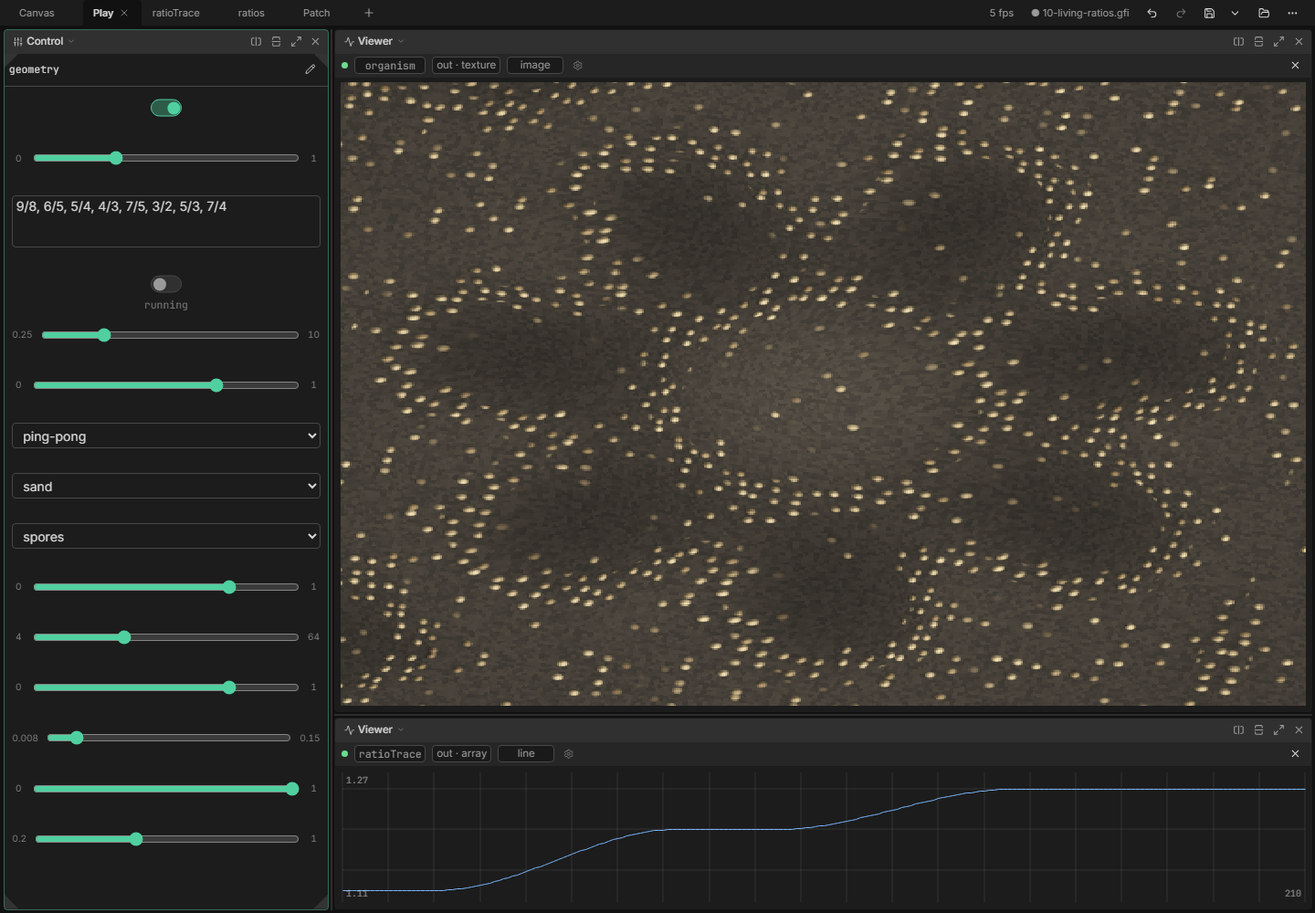
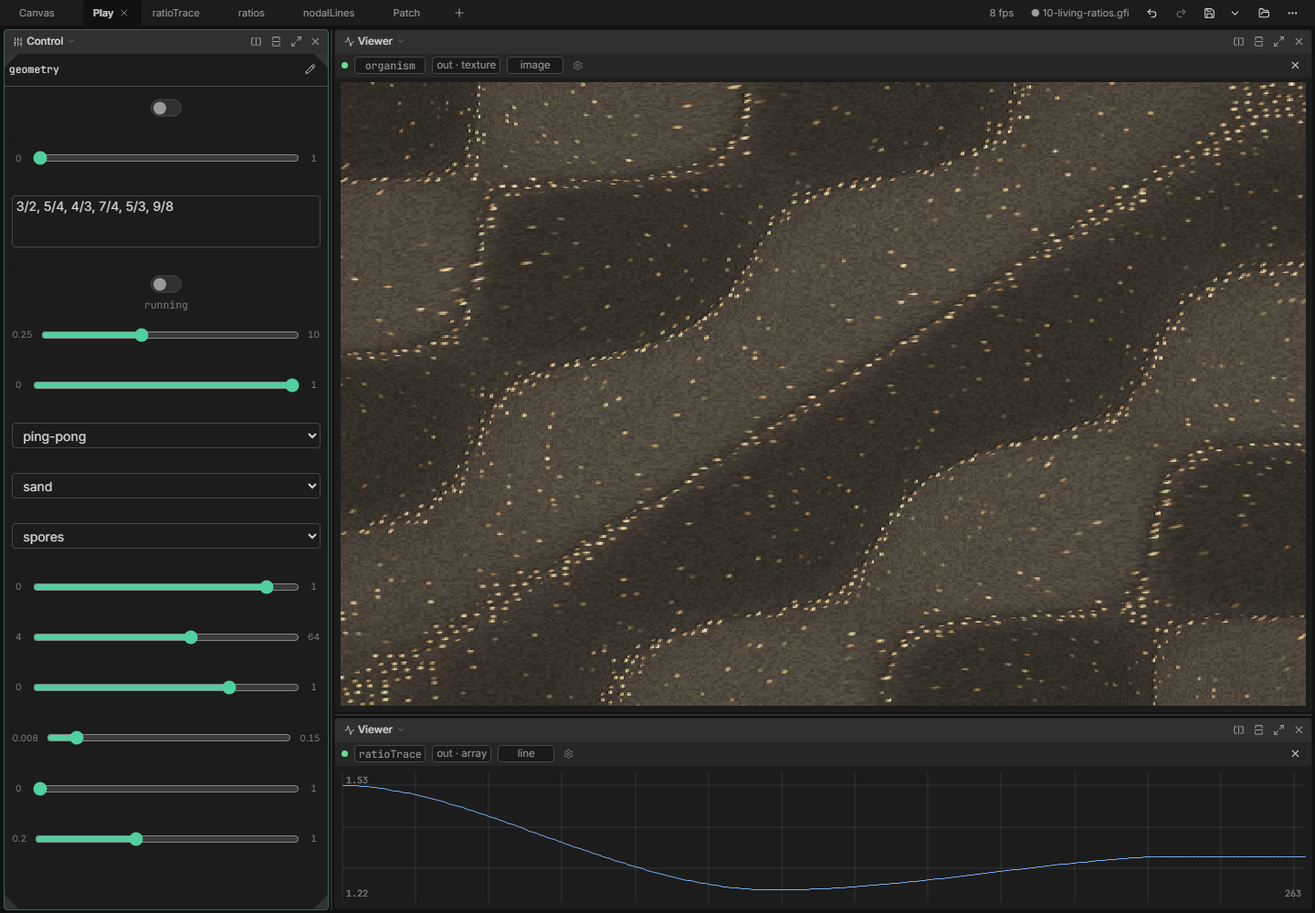
Morph sequenced ratios through coherent Chladni states
Carry both harmonic endpoints and their blend in one transition frame. Map endpoints before mode interpolation, start the demo on the plate path with continuous glides, and add a plain nodal view. Verify geometry movement with fixed textures and continuity at step changes and reversals.

diff --git a/examples/harmonic-geometry/Cookbook.html b/examples/harmonic-geometry/Cookbook.html
@@ -65,10 +65,10 @@ cargo run -- --load examples/harmonic-geometry/01-breathing-lines.gfi</pre><p>St
         <aside class="note">This is a stateless material renderer with explicit mode and texture controls. Mirrored extension fills every edge. Both views stretch the image to the available panel. Grains, colonies, and cells are procedural field-dependent features, not tracked particles or a biological simulation. The saved patch uses 512 × 512 for both field and material. Small detail is limited by the height-map resolution.</aside><a class="button" href="09-jade-resonance.gfi">Open patch archive ↗</a>
         <a class="quiet" href="assets/09-jade-resonance-browser.png">Browser view ↗</a></section>
 <section class="recipe" id="recipe-10">
-        <div class="eyebrow">RECIPE 10 / 7 NODES</div><h2>Living ratios</h2>
-        <p class="deck">A ratio walks. A field answers.</p><figure><img loading="lazy" src="assets/10-living-ratios.png" alt="Rendered output of Living ratios"><figcaption>Rendered from a real goofi node session.</figcaption></figure>
-        <p>RatioSequence emits an ordered series of ratios in real time. Each step holds, then glides in pitch to the next. One moving voice sits between fixed anchors at 1 and 2. The shared harmonic frame drives the field, while a separate slow control morphs the organic texture. The trace below the picture shows the recent ratio history. The ratios tab shows the current step, target, and numeric ratio.</p><div class="route">ratios.tuning → chord.a → field.harmonics → organism · ratios.ratio → ratioTrace · slow.out → organism.texture_mix</div><table><tr><th>ratios</th><td>Enter an ordered list such as 9/8, 6/5, 5/4, 4/3, 7/5, 3/2, 5/3, 7/4. Fractions and decimals are accepted.</td></tr><tr><th>running / stepSeconds</th><td>Pause at the current position or set seconds per step.</td></tr><tr><th>glide / direction</th><td>Glide 0 gives discrete steps; 1 glides for the whole step. Ping-pong reverses at the ends without repeating them.</td></tr><tr><th>auto / mix</th><td>These control the texture blend only. Ratio motion has its own running switch.</td></tr><tr><th>textureA / textureB / density</th><td>Choose any two of the twelve textures. Density controls grain and colony coverage.</td></tr><tr><th>grainSize / grainHeight / bandWidth</th><td>Set texture repeats, surface detail height, and the width of nodal concentration bands.</td></tr><tr><th>approach / period</th><td>Approach 1 keeps continuous ratio glides in open waves. Approach 0 maps to discrete plate modes; intermediate values blend the two fields.</td></tr></table>
-        <aside class="note">This example uses RatioSequence with HarmonicMorph, HarmonicModes, HarmonicChladni, HarmonicRelief, and Buffer. Reset is a pulse on the RatioSequence node. The optional clock input lets another source supply elapsed seconds. Keep steps longer than the node update interval. Anchor crossings or equal components can change the sorting and merging in HarmonicMorph. The saved sequence stays strictly between its two anchors.</aside><a class="button" href="10-living-ratios.gfi">Open patch archive ↗</a>
+        <div class="eyebrow">RECIPE 10 / 8 NODES</div><h2>Living ratios</h2>
+        <p class="deck">One Chladni state unfolds into the next.</p><figure><img loading="lazy" src="assets/10-living-ratios.png" alt="Rendered output of Living ratios"><figcaption>Rendered from a real goofi node session.</figcaption></figure>
+        <p>Each ratio defines an integer plate mode. HarmonicModes maps the two endpoints first, then moves the mode coordinates between them. Both endpoints and the blend travel together, so a step boundary cannot reset the blend before its new endpoints arrive. The default moves continuously for four seconds per state. Texture motion starts off so the nodal pattern remains clear. The trace shows the simultaneous pitch glide; nodalLines gives a plain line view of the same plate.</p><div class="route">ratios.transition → modes.transition → field.modes → organism + nodalLines · ratios.tuning → chord → field.harmonics · ratios.ratio → ratioTrace</div><table><tr><th>ratios</th><td>Start with 3/2, 5/4, 4/3, 7/4, 5/3, 9/8. Each pair of consecutive ratios defines a transition between plate states.</td></tr><tr><th>running / stepSeconds</th><td>Pause at the current state or set seconds per transition. The default is four seconds.</td></tr><tr><th>glide / direction</th><td>Glide 1 moves throughout the step. Lower values add a hold before the transition. Ping-pong reverses through the same states.</td></tr><tr><th>auto / mix</th><td>These control texture blending only. Auto starts off; turn it on after inspecting the shape motion.</td></tr><tr><th>textureA / textureB / density</th><td>Choose any two of the twelve textures. Sand gives a clear view of the moving nodal bands.</td></tr><tr><th>grainSize / grainHeight / bandWidth</th><td>Set texture repeats, surface detail height, and nodal band width.</td></tr><tr><th>approach / period</th><td>Approach 0 follows the smooth Chladni mode path. Approach 1 uses the gliding anchor chord for open waves; period sets their spatial scale.</td></tr></table>
+        <aside class="note">Fractional intermediate mode coordinates are visual transitions, not physical plate eigenmodes. The single-ratio plate path and the gliding anchor chord give two different manifestations of the same sequence. The transition packet also accepts multi-component harmonic endpoints from other producers. Reset is on RatioSequence; its optional clock takes elapsed seconds.</aside><a class="button" href="10-living-ratios.gfi">Open patch archive ↗</a>
         <a class="quiet" href="assets/10-living-ratios-browser.png">Browser view ↗</a></section>
 <section id="atlas"><div class="eyebrow">SPECIMEN COLLECTION</div><h2>One frame, 46 forms.</h2><p>These images come from the public-session method sweep. Click a specimen to inspect the full dashboard. The same default harmonic frame feeds each method. The atlas is a comparison of approaches, not a claim that every default chord makes an equally rich form.</p><input class="search" type="search" aria-label="Filter geometry methods" placeholder="Filter: knot, plate, tree, sphere…"><div class="grid"><a class="specimen" href="assets/compound.png" data-name="compound"><img loading="lazy" src="assets/compound.png" alt="compound"><span>compound</span></a>
 <a class="specimen" href="assets/lateral.png" data-name="lateral"><img loading="lazy" src="assets/lateral.png" alt="lateral"><span>lateral</span></a>

diff --git a/tests/e2e/tests/harmonic-geometry.spec.ts b/tests/e2e/tests/harmonic-geometry.spec.ts
@@ -29,6 +29,25 @@ async function imageContrast(page: Page): Promise<number> {
 	}, png.toString('base64'));
 }
 
+async function imageMovement(page: Page, previous: string): Promise<number> {
+	const current = (await page.locator('.vp-body canvas:visible').first().screenshot()).toString('base64');
+	return page.evaluate(async ([previous, current]) => {
+		const read = async (encoded: string) => {
+			const bytes = Uint8Array.from(atob(encoded), c => c.charCodeAt(0));
+			const bitmap = await createImageBitmap(new Blob([bytes], { type: 'image/png' }));
+			const canvas = new OffscreenCanvas(64, 64);
+			const ctx = canvas.getContext('2d')!;
+			ctx.drawImage(bitmap, 0, 0, 64, 64);
+			bitmap.close();
+			return ctx.getImageData(0, 0, 64, 64).data;
+		};
+		const [a, b] = await Promise.all([read(previous), read(current)]);
+		let difference = 0;
+		for (let i = 0; i < a.length; i += 4) difference += Math.abs(a[i]-b[i]);
+		return difference/(64*64);
+	}, [previous, current]);
+}
+
 test('the harmonic geometry cookbook opens as live dashboards with usable controls', async ({ page }) => {
 	test.setTimeout(360_000);
 	page.setDefaultTimeout(15_000);
@@ -187,8 +206,14 @@ test('living ratios modulate the organic field with a visible trace and pause co
 		const loaded = await rawCall(page, 'session load', { path: path.join(folder, '10-living-ratios.gfi') });
 		expect(loaded.error, JSON.stringify(loaded)).toBeUndefined();
 		await expect(page.getByTestId('control-geometry-running').getByRole('checkbox')).toBeChecked();
+		await expect(page.getByTestId('control-geometry-auto').getByRole('checkbox')).not.toBeChecked();
+		await expect(page.getByTestId('control-geometry-approach').getByRole('slider')).toHaveValue('0');
+		await expect(page.getByTestId('control-geometry-glide').getByRole('slider')).toHaveValue('1');
 		await expect.poll(() => page.locator('.vp-body canvas:visible').count()).toBeGreaterThanOrEqual(2);
 		await expect.poll(() => imageContrast(page), { timeout: 45_000 }).toBeGreaterThan(15);
+		const still = (await page.locator('.vp-body canvas:visible').first().screenshot()).toString('base64');
+		await expect.poll(() => imageMovement(page, still), { timeout: 8_000,
+			message: 'The Chladni picture visibly changes while the texture stays fixed' }).toBeGreaterThan(4);
 		const sample = async () => (await rawCall(page, 'node snapshot', { output: 'ratios/ratio' })).result?.range?.mean;
 		await expect.poll(sample).toBeGreaterThan(1);
 		const first = await sample();
@@ -199,6 +224,8 @@ test('living ratios modulate the organic field with a visible trace and pause co
 		await page.screenshot({ path: path.join(folder, 'assets', '10-living-ratios-browser.png') });
 		await page.getByRole('tab', { name: 'ratios Close tab', exact: true }).click();
 		await expect(page.locator('.vp-body')).toContainText('ratio');
+		await page.getByRole('tab', { name: 'nodalLines Close tab', exact: true }).click();
+		await expect.poll(() => imageContrast(page)).toBeGreaterThan(15);
 	} finally {
 		await resetPatch(page);
 	}

diff --git a/examples/harmonic-geometry/build_patches.py b/examples/harmonic-geometry/build_patches.py
@@ -21,7 +21,7 @@ RELIEF_TEXTURES = next(p['options'] for p in RELIEF_HEADER['params'] if p['name'
 
 
 class Patch:
-    def __init__(self, slug, title):
+    def __init__(self, slug, title, auto=True, mix=0.3):
         self.slug, self.title = slug, title
         self.nodes, self.links, self.names, self.globals = {}, [], {}, []
         self.views = []
@@ -31,18 +31,18 @@ class Patch:
         self.extra = {}
         for name, value in [('default_ufreq', 20.0), ('default_width', 256), ('default_height', 256)]:
             self.globals.append({'name': 'system.'+name, 'type': 'int' if isinstance(value, int) else 'float', 'value': value})
-        self.control('auto', True, kind='toggle')
-        self.control('mix', 0.3, 0, 1)
+        self.control('auto', auto, kind='toggle')
+        self.control('mix', mix, 0, 1)
         self.node('slow', 'signal:LFO', (-380, 0), lfo={'frequency': 0.018, 'phase': 0.75}, common={'max_frequency': 20.0})
         self.bind('slow', 'lfo', 'amplitude', '0.5 if globals.geometry.auto else 0.0')
         self.bind('slow', 'lfo', 'offset', '0.5 if globals.geometry.auto else globals.geometry.mix')
 
-    def control(self, name, value, lo=0.0, hi=1.0, kind='slider', options=None):
+    def control(self, name, value, lo=0.0, hi=1.0, kind='slider', options=None, step=None):
         typ = 'bool' if isinstance(value, bool) else 'string' if isinstance(value, str) else 'float'
         control = {'kind': kind, 'x': 0.0, 'y': self.row, 'w': 16.0, 'h': 2.0 if kind != 'text' else 3.0}
         if typ == 'float':
-            # Native range inputs must reach the decimal endpoint in exactly 200 steps.
-            step = float((Decimal(str(hi))-Decimal(str(lo)))/200)
+            # Default steps reach both decimal endpoints; custom steps can also align the initial value.
+            if step is None: step = float((Decimal(str(hi))-Decimal(str(lo)))/200)
             control.update(min=lo, max=hi, step=step)
         if options: control['options'] = options
         self.row += control['h']
@@ -325,12 +325,12 @@ def recipes():
     p.display('jade', 'out')
     yield p.save()
 
-    p = Patch('10-living-ratios', 'Living ratios')
+    p = Patch('10-living-ratios', 'Living ratios', auto=False, mix=0.0)
     p.canvas = True
-    p.control('ratios', '9/8, 6/5, 5/4, 4/3, 7/5, 3/2, 5/3, 7/4', kind='text')
+    p.control('ratios', '3/2, 5/4, 4/3, 7/4, 5/3, 9/8', kind='text')
     p.control('running', True, kind='toggle')
-    p.control('stepSeconds', 2.5, .25, 10)
-    p.control('glide', .7, 0, 1)
+    p.control('stepSeconds', 4.0, .25, 10, step=.05)
+    p.control('glide', 1.0, 0, 1)
     p.control('direction', 'ping-pong', kind='dropdown', options=['forward', 'ping-pong'])
     p.node('ratios', 'signal:RatioSequence', (0, 0))
     for name, param in [('ratios', 'ratios'), ('running', 'running'), ('stepSeconds', 'seconds'), ('glide', 'glide'), ('direction', 'direction')]:
@@ -338,31 +338,34 @@ def recipes():
     p.harmonic('chord', '1, 9/8, 2', '1, 9/8, 2', (380, 0), False)
     p.wire('ratios', 'tuning', 'chord', 'a')
     p.node('modes', 'signal:HarmonicModes', (750, 0))
-    p.wire('chord', 'harmonic', 'modes', 'input')
+    p.wire('ratios', 'transition', 'modes', 'transition')
     p.node('field', 'graphics:HarmonicChladni', (1120, 0),
-           field={'approach': 1.0, 'directions': 7, 'period': .5}, common={'width': 512, 'height': 512})
+           field={'approach': 0.0, 'symmetry': 1.0, 'directions': 7, 'period': .5}, common={'width': 512, 'height': 512})
     p.wire('chord', 'packed', 'field', 'harmonics'); p.wire('modes', 'modes', 'field', 'modes')
     p.node('organism', 'graphics:HarmonicRelief', (1500, 0),
-           material={'texture_a': 'sand', 'texture_b': 'spores'}, common={'width': 512, 'height': 512})
+           material={'texture_a': 'sand', 'texture_b': 'spores'}, camera={'tilt': 0.0, 'turn': 0.0},
+           common={'width': 512, 'height': 512})
     p.wire('field', 'out', 'organism', 'input')
     p.bind('organism', 'material', 'texture_mix', reference='slow.out')
     for name, value, param in [('textureA', 'sand', 'texture_a'), ('textureB', 'spores', 'texture_b')]:
         p.control(name, value, kind='dropdown', options=RELIEF_TEXTURES)
         p.bind('organism', 'material', param, 'globals.geometry.'+name)
     for name, value, lo, hi, node, group, param in [
-        ('density', .75, 0, 1, 'organism', 'material', 'density'),
-        ('grainSize', 24.0, 4, 64, 'organism', 'material', 'texture_scale'),
+        ('density', .9, 0, 1, 'organism', 'material', 'density'),
+        ('grainSize', 40.0, 4, 64, 'organism', 'material', 'texture_scale'),
         ('grainHeight', .75, 0, 1, 'organism', 'material', 'texture_depth'),
         ('bandWidth', .022, .008, .15, 'organism', 'form', 'seam'),
-        ('approach', 1.0, 0, 1, 'field', 'field', 'approach'),
+        ('approach', 0.0, 0, 1, 'field', 'field', 'approach'),
         ('period', .5, .2, 1.0, 'field', 'field', 'period'),
     ]:
-        p.control(name, value, lo, hi)
+        p.control(name, value, lo, hi, step={'grainSize': .1, 'bandWidth': .0001}.get(name))
         p.bind(node, group, param, 'globals.geometry.'+name)
     p.node('ratioTrace', 'signal:Buffer', (380, 480), buffer={'size': 600})
     p.wire('ratios', 'ratio', 'ratioTrace', 'input')
     p.monitor = ('ratioTrace', 'out', 'line')
     p.display('organism', 'out'); p.display('ratioTrace', 'out', 'line'); p.display('ratios', 'label', 'string')
+    p.ink('field', name='nodalLines')
+    p.display('nodalLines', 'out')
     yield p.save()
 
 

diff --git a/examples/harmonic-geometry/build_cookbook.py b/examples/harmonic-geometry/build_cookbook.py
@@ -53,11 +53,11 @@ NOTES = [
      [('auto / mix / symmetry', 'Auto runs the mode walk. Turn it off to set mix. Symmetry changes how swapped plate modes interfere.'), ('textureA / textureB', 'Choose any two of the twelve textures. Organic options include sand, dunes, lichen, coral, cells, spores, pollen, and plankton. The four mineral and fabric finishes remain available.'), ('textureAuto / textureMix', 'TextureAuto runs a separate slow motion. Turn it off to set textureMix from endpoint A at 0 to endpoint B at 1. The endpoint curve is smooth.'), ('textureScale / textureDepth / density', 'Set texture repeats and surface height. Density changes grain and colony coverage. These leave the source field unchanged.'), ('relief / goldSeam', 'Change the height of the harmonic relief and the width of its metal seams.'), ('engraving / roughness / patina', 'Add contour etching, tune highlight width, and move the jade finish from bronze to green.'), ('light / tilt', 'Move the light or tilt the camera to inspect the surface.')],
      'chordA + chordB → modeWalk → plate → jade · materialMotion.out → jade.material/texture_mix',
      'This is a stateless material renderer with explicit mode and texture controls. Mirrored extension fills every edge. Both views stretch the image to the available panel. Grains, colonies, and cells are procedural field-dependent features, not tracked particles or a biological simulation. The saved patch uses 512 × 512 for both field and material. Small detail is limited by the height-map resolution.'),
-    ('A ratio walks. A field answers.',
-     'RatioSequence emits an ordered series of ratios in real time. Each step holds, then glides in pitch to the next. One moving voice sits between fixed anchors at 1 and 2. The shared harmonic frame drives the field, while a separate slow control morphs the organic texture. The trace below the picture shows the recent ratio history. The ratios tab shows the current step, target, and numeric ratio.',
-     [('ratios', 'Enter an ordered list such as 9/8, 6/5, 5/4, 4/3, 7/5, 3/2, 5/3, 7/4. Fractions and decimals are accepted.'), ('running / stepSeconds', 'Pause at the current position or set seconds per step.'), ('glide / direction', 'Glide 0 gives discrete steps; 1 glides for the whole step. Ping-pong reverses at the ends without repeating them.'), ('auto / mix', 'These control the texture blend only. Ratio motion has its own running switch.'), ('textureA / textureB / density', 'Choose any two of the twelve textures. Density controls grain and colony coverage.'), ('grainSize / grainHeight / bandWidth', 'Set texture repeats, surface detail height, and the width of nodal concentration bands.'), ('approach / period', 'Approach 1 keeps continuous ratio glides in open waves. Approach 0 maps to discrete plate modes; intermediate values blend the two fields.')],
-     'ratios.tuning → chord.a → field.harmonics → organism · ratios.ratio → ratioTrace · slow.out → organism.texture_mix',
-     'This example uses RatioSequence with HarmonicMorph, HarmonicModes, HarmonicChladni, HarmonicRelief, and Buffer. Reset is a pulse on the RatioSequence node. The optional clock input lets another source supply elapsed seconds. Keep steps longer than the node update interval. Anchor crossings or equal components can change the sorting and merging in HarmonicMorph. The saved sequence stays strictly between its two anchors.'),
+    ('One Chladni state unfolds into the next.',
+     'Each ratio defines an integer plate mode. HarmonicModes maps the two endpoints first, then moves the mode coordinates between them. Both endpoints and the blend travel together, so a step boundary cannot reset the blend before its new endpoints arrive. The default moves continuously for four seconds per state. Texture motion starts off so the nodal pattern remains clear. The trace shows the simultaneous pitch glide; nodalLines gives a plain line view of the same plate.',
+     [('ratios', 'Start with 3/2, 5/4, 4/3, 7/4, 5/3, 9/8. Each pair of consecutive ratios defines a transition between plate states.'), ('running / stepSeconds', 'Pause at the current state or set seconds per transition. The default is four seconds.'), ('glide / direction', 'Glide 1 moves throughout the step. Lower values add a hold before the transition. Ping-pong reverses through the same states.'), ('auto / mix', 'These control texture blending only. Auto starts off; turn it on after inspecting the shape motion.'), ('textureA / textureB / density', 'Choose any two of the twelve textures. Sand gives a clear view of the moving nodal bands.'), ('grainSize / grainHeight / bandWidth', 'Set texture repeats, surface detail height, and nodal band width.'), ('approach / period', 'Approach 0 follows the smooth Chladni mode path. Approach 1 uses the gliding anchor chord for open waves; period sets their spatial scale.')],
+     'ratios.transition → modes.transition → field.modes → organism + nodalLines · ratios.tuning → chord → field.harmonics · ratios.ratio → ratioTrace',
+     'Fractional intermediate mode coordinates are visual transitions, not physical plate eigenmodes. The single-ratio plate path and the gliding anchor chord give two different manifestations of the same sequence. The transition packet also accepts multi-component harmonic endpoints from other producers. Reset is on RatioSequence; its optional clock takes elapsed seconds.'),
 ]
 
 

diff --git a/backend/goofi-tests/tests/harmonic_geometry.rs b/backend/goofi-tests/tests/harmonic_geometry.rs
@@ -767,3 +767,57 @@ fn ratio_sequence_holds_glides_loops_and_drives_a_harmonic_field() {
     seek(0.0, 1.25); // A backward clock re-anchors safely.
     assert!(g.error(sequence).is_none());
 }
+
+#[test]
+fn sequenced_chladni_states_move_continuously_across_step_boundaries() {
+    let _py = require_python();
+    let g = Goofi::new();
+    install_bundle(&g, &[("ratio_clock.py", include_str!("fixtures/ratio_clock.py"))]);
+    let clock = g.add("RatioClock");
+    let sequence = g.add("RatioSequence");
+    g.set_param(sequence, "sequence", "ratios", "3/2, 5/4, 4/3");
+    g.set_param(sequence, "sequence", "seconds", 1.0);
+    g.set_param(sequence, "sequence", "glide", 1.0);
+    g.set_param(sequence, "sequence", "direction", "ping-pong");
+    g.link(clock, "out", sequence, "clock");
+    let modes = g.add("HarmonicModes");
+    g.link(sequence, "transition", modes, "transition");
+    let mode_data = g.probe(modes, "modes");
+    let plate = g.add("graphics:HarmonicChladni");
+    g.set_param(plate, "common", "width", 128);
+    g.set_param(plate, "common", "height", 128);
+    g.set_param(plate, "field", "symmetry", 1.0);
+    g.link(modes, "modes", plate, "modes");
+    let output = g.probe(plate, "out");
+    let capture = |time: f64, m: f32, n: f32| {
+        g.set_param(clock, "clock", "time", time);
+        g.until(&format!("plate mode ({m}, {n}) at clock {time}"), |_| {
+            mode_data.latest().filter(|d| (f32s(d)[0]-m).abs() < 0.0001 && (f32s(d)[32]-n).abs() < 0.0001)
+        });
+        let count = output.count();
+        let image = g.until("the interpolated plate reaches the GPU", |g| {
+            render(g, 1);
+            output.latest().filter(|_| output.count() > count+3)
+        });
+        assert!(g.error(modes).is_none());
+        f32s(&image)
+    };
+    let first = capture(0.0, 3.0, 2.0);
+    let quarter = capture(0.25, 3.3125, 2.3125);
+    let middle = capture(0.5, 4.0, 3.0);
+    let before = capture(0.999, 4.999994, 3.999994);
+    let boundary = capture(1.0, 5.0, 4.0);
+    let after = capture(1.001, 4.999997, 3.999997);
+    let second_middle = capture(1.5, 4.5, 3.5);
+    let turn = capture(2.0, 4.0, 3.0);
+    let reversed = capture(2.001, 4.000003, 3.000003);
+    let reverse_middle = capture(2.5, 4.5, 3.5);
+    let difference = |a: &[f32], b: &[f32]| a.iter().zip(b).map(|(a, b)| (a-b).abs()).sum::<f32>()/a.len() as f32;
+    assert!(difference(&first, &quarter) > 0.1, "the geometry moves during the first quarter of a step");
+    assert!(difference(&quarter, &middle) > 0.1, "the mode trajectory keeps moving");
+    assert!(difference(&middle, &boundary) > 0.1, "the endpoint is a distinct plate state");
+    for (a, b) in [(&before, &boundary), (&boundary, &after), (&turn, &reversed)] {
+        assert!(difference(a, b) < 0.002, "step changes and turnarounds do not jump to the old source state");
+    }
+    assert_eq!(second_middle, reverse_middle, "ping-pong retraces the same field");
+}

diff --git a/node-bundles/harmonic-geometry/harmonic_modes.py b/node-bundles/harmonic-geometry/harmonic_modes.py
@@ -2,6 +2,9 @@
 
 input and target are harmonic TABLEs. Each is mapped independently by Biotuner.
 Then mode coordinates, amplitudes, and phases interpolate by component rank.
+Alternatively, transition takes one TABLE with input and target harmonic TABLEs
+and a scalar mix. RatioSequence supplies this complete frame so endpoint changes
+and the mix reset cannot arrive on separate clocks at a step boundary.
 Fractional intermediate modes draw a continuous visual field; they are not
 eigenmodes of the original closed plate. Use fixed fields plus GeometryBlend
 to retain integer endpoint fields instead.
@@ -15,11 +18,19 @@ import goofi
 
 
 class HarmonicModes(goofi.Node):
-    """Map harmonic ratios to Chladni modes and interpolate two mode structures."""
+    """Map harmonic ratios to Chladni modes and interpolate two mode structures.
+
+    Use separate input/target harmonic frames and mix, or a single transition
+    TABLE carrying those three fields. RatioSequence.transition supplies the
+    latter so a new step's endpoints and its mix reset remain synchronized.
+    Endpoints map to integer modes first; intermediate coordinates are continuous
+    visual fields. Connecting both input routes reports an error.
+    """
 
     TAGS = ["transform"]
-    INPUTS = {"input": goofi.InputSlot(goofi.DataType.TABLE, required=True),
+    INPUTS = {"input": goofi.InputSlot(goofi.DataType.TABLE, required=False),
               "target": goofi.InputSlot(goofi.DataType.TABLE, required=False),
+              "transition": goofi.InputSlot(goofi.DataType.TABLE, required=False),
               "mix": goofi.InputSlot(goofi.DataType.ARRAY, required=False)}
     OUTPUTS = {"modes": goofi.DataType.ARRAY}
     PARAMS = {"modes": {
@@ -45,7 +56,16 @@ class HarmonicModes(goofi.Node):
             modes[3, :len(r)] = ph
         return modes, len(r)
 
-    def process(self, input, target=None, mix=None):
+    def process(self, input=None, target=None, mix=None, transition=None):
+        if transition is not None:
+            if any(value is not None for value in (input, target, mix)):
+                raise ValueError("Connect either transition or separate input, target, and mix")
+            try:
+                input, target, mix = [transition.table[k] for k in ("input", "target", "mix")]
+            except KeyError as e:
+                raise ValueError("A transition needs input, target, and mix") from e
+        if input is None:
+            return None
         modes, na = self._modes(input)
         t = self.params.modes.mix
         if mix is not None:

diff --git a/node-bundles/harmonic-geometry/ratio_sequence.py b/node-bundles/harmonic-geometry/ratio_sequence.py
@@ -2,6 +2,8 @@
 
 ratio is one current ratio; tuning replaces one voice in a fixed anchor chord.
 Connect tuning to HarmonicMorph.a, then packed to a shader's harmonics input.
+For Chladni state morphing, connect transition to HarmonicModes.transition.
+It carries both endpoint harmonic frames and their blend in one coherent packet.
 The optional clock input contains one elapsed time in seconds. Without it the
 node uses a monotonic clock. Frame rate does not determine sequence speed.
 """
@@ -36,12 +38,16 @@ class RatioSequence(goofi.Node):
     restarts. A clock source change or backward clock jump re-anchors at step one.
     Keep anchor ratios outside the moving range to avoid component crossings in
     downstream nodes that sort or merge equal frequencies.
+
+    transition contains input and target harmonic TABLEs for the two step ratios
+    and their eased mix. Connect it to HarmonicModes.transition for smooth plate
+    mode motion. Each endpoint has one ratio, amplitude one, and phase zero.
     """
 
     TAGS = ['generator', 'music']
     INPUTS = {'clock': goofi.InputSlot(goofi.DataType.ARRAY, required=False)}
     OUTPUTS = {**{name: goofi.DataType.ARRAY for name in ('ratio', 'target', 'tuning', 'step', 'phase')},
-               'label': goofi.DataType.STRING}
+               'transition': goofi.DataType.TABLE, 'label': goofi.DataType.STRING}
     PARAMS = {
         'sequence': {
             'ratios': goofi.StringParam('9/8, 6/5, 5/4, 4/3, 7/5, 3/2, 5/3, 7/4', doc='Ordered steps, as positive ratios or fractions. At most 64.'),
@@ -110,6 +116,8 @@ class RatioSequence(goofi.Node):
         ratio = float(np.exp((1.0-amount)*np.log(ratios[current])+amount*np.log(ratios[target])))
         tuning[voice] = ratio
         scalar = lambda value: np.asarray([value], dtype=np.float32)
+        harmonic = lambda value: {'ratios': scalar(value), 'amplitudes': scalar(1), 'phases': scalar(0)}
         return {'ratio': scalar(ratio), 'target': scalar(ratios[target]), 'tuning': tuning.astype(np.float32),
                 'step': scalar(current+1), 'phase': scalar(phase),
+                'transition': {'input': harmonic(ratios[current]), 'target': harmonic(ratios[target]), 'mix': scalar(amount)},
                 'label': f'{current+1}/{len(ratios)}  {ratios[current]:.4g} → {ratios[target]:.4g}  |  ratio {ratio:.5f}'}

diff --git a/examples/harmonic-geometry/VERIFICATION.md b/examples/harmonic-geometry/VERIFICATION.md
@@ -4,6 +4,39 @@ Checked on Windows x86_64, 9 September 2026, with Rust 1.97.1, the repository's
 two Python environments, and Chromium. Biotuner is pinned to the same revision
 as the existing bundle: `f45570e674d8193c7780891b9053a39bf6168c1e`.
 
+## Continuous Chladni states
+
+Recipe 10 previously selected open waves and modulated one voice of an anchor
+chord. This did not demonstrate a Chladni state walk. It now starts at approach
+0 with full-step glides and four seconds per state. Texture animation starts
+off. A new nodalLines tab shows the same field without the surface texture.
+
+RatioSequence sends both endpoint harmonic frames and the eased mix in one
+transition TABLE. HarmonicModes maps the endpoints to integer modes, then
+interpolates their coordinates. A single packet keeps the endpoint changes and
+mix reset together at step boundaries. Separate harmonic input/target/mix ports
+remain available; connecting both routes reports an error. Without source data,
+the node waits, including while a loaded patch starts.
+
+- The public GPU continuity session passed in 18.19 seconds. It verifies mode
+  coordinates, substantial field movement within a step, continuity across a
+  step boundary and a reversal, and identical fields on the return path.
+- Both archive sessions passed in 23.23 seconds, including the existing
+  separate-input route in recipe 09 and the new packet route in recipe 10.
+- The app build passed in 19.85 seconds. Clippy passed with warnings denied,
+  and the browser test TypeScript check passed.
+- Two Chromium sessions passed in 17.9 seconds. The live test now requires
+  visible image movement while texture animation is disabled, checks the
+  Chladni and glide defaults, and opens the line view. The cookbook check covers
+  desktop and phone. The corrected live demo was restored without node errors.
+
+One full-size archive run reached the Windows paging limit with the live
+renderer also open. It was stopped and rerun alone. A startup check then found
+that the new optional input routes reported an error before their first frame;
+the node now waits as the former required input did. The full workspace suite
+was not repeated. Intermediate fractional modes remain visual transitions,
+not physical closed-plate eigenmodes.
+
 ## Organic textures and successive ratios
 
 This update supersedes the four-texture setup below. Recipes 09 and 10 open

diff --git a/examples/harmonic-geometry/README.md b/examples/harmonic-geometry/README.md
@@ -62,10 +62,21 @@ controls the highlights. Patina changes the jade finish from bronze to green.
 The node also has contour count, turn, zoom, and exposure controls. Material
 and camera controls leave the upstream harmonic field unchanged.
 
-Load **10 · Living ratios** for a live modulation demonstration. **ratios** is
+Load **10 · Living ratios** for continuous Chladni state morphing. **ratios** is
 an editable ordered list of fractions or decimals. **stepSeconds** sets timing;
 **glide** sets how much of each step moves smoothly to the next ratio. Turn
 **running** off to hold the ratio. **direction** selects forward or ping-pong.
 The trace below the picture shows recent ratios; the **ratios** tab gives a
 numeric readout. In this patch, **auto/mix** control only the texture blend.
 The RatioSequence node also has a reset pulse and an optional external clock.
+The default uses four seconds per state and glide 1, so motion has no hold.
+Each ratio maps to an integer plate mode; the mode coordinates then interpolate
+to the next state. This avoids repeated integer remapping of a gliding ratio.
+The endpoint frames and blend travel together in `transition`, so each step
+change is coherent. These intermediate fields are visual transitions between
+plate states, not physical plate eigenmodes.
+
+**approach 0** shows the Chladni state walk. **approach 1** uses the continuous
+ratio with the fixed anchor chord to form open waves. Texture auto starts off;
+turn it on after inspecting the geometry. The **nodalLines** tab shows the same
+field as clear lines. **Canvas** gives the textured view the full window.

diff --git a/node-bundles/harmonic-geometry/README.md b/node-bundles/harmonic-geometry/README.md
@@ -72,6 +72,14 @@ position. Reset, list/direction edits, clock source changes, and backward clock
 jumps restart at step one. Pitch glides join consecutive ratios in log frequency,
 including the loop boundary. See **10 · Living ratios** for a complete example.
 
+`RatioSequence.transition` is a TABLE with `input` and `target` harmonic TABLEs
+(one ratio, amplitude 1, phase 0 each) and an eased scalar `mix`. Connect it to
+`HarmonicModes.transition` to map both endpoint ratios first, then interpolate
+their mode coordinates. The complete packet keeps a step's endpoint change and
+mix reset together. Use either this packet or the separate input/target/mix
+ports; connecting both routes reports an error. The existing `tuning` output
+still supplies the moving anchor chord for open waves, sound, and other media.
+
 Use `Tuning.tuning` in ratios mode, or `Peaks.peaks` / `HarmonicSpectrum.peaks`
 in peaks mode. Select one leading row. Amplitudes and phases must belong to the
 same components. `Peaks.amps` is in dB: select the matching amplitude scale.
